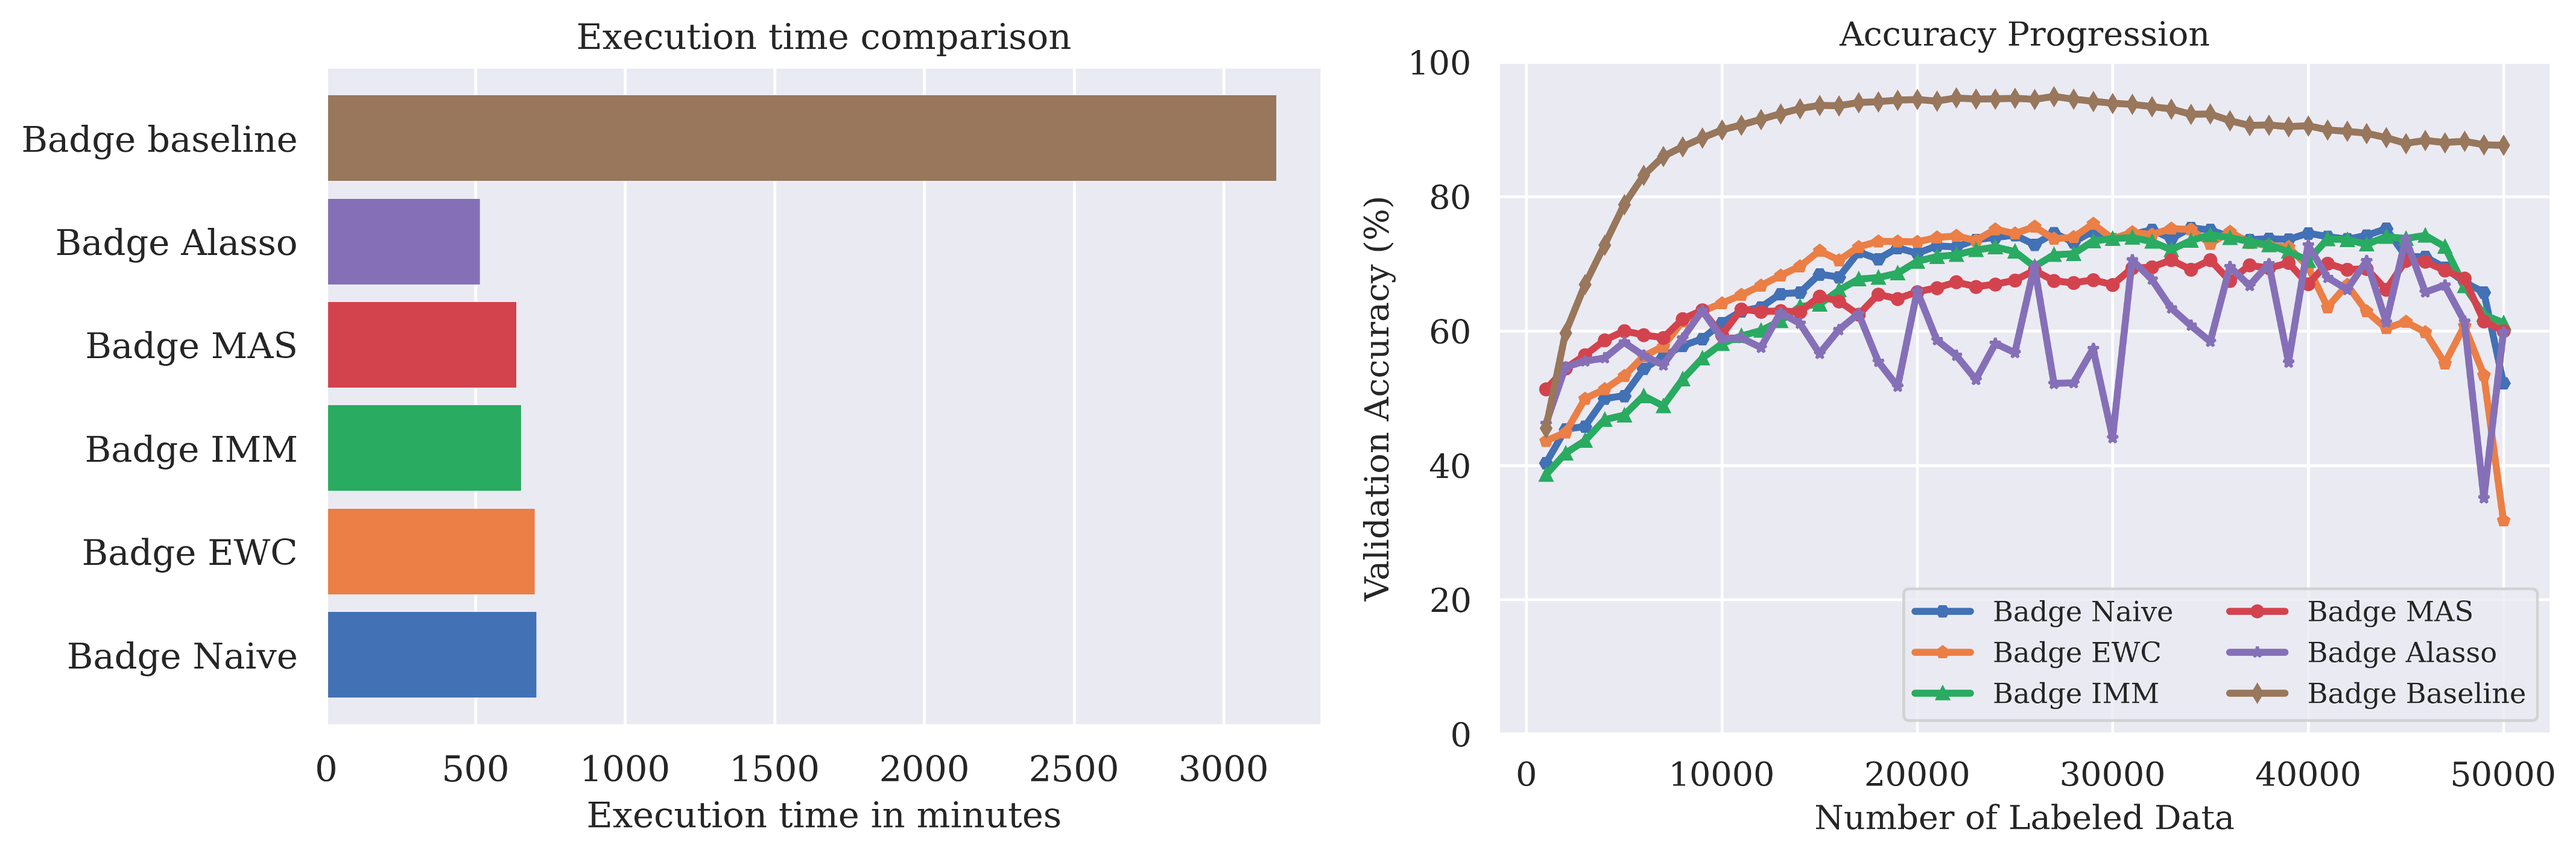
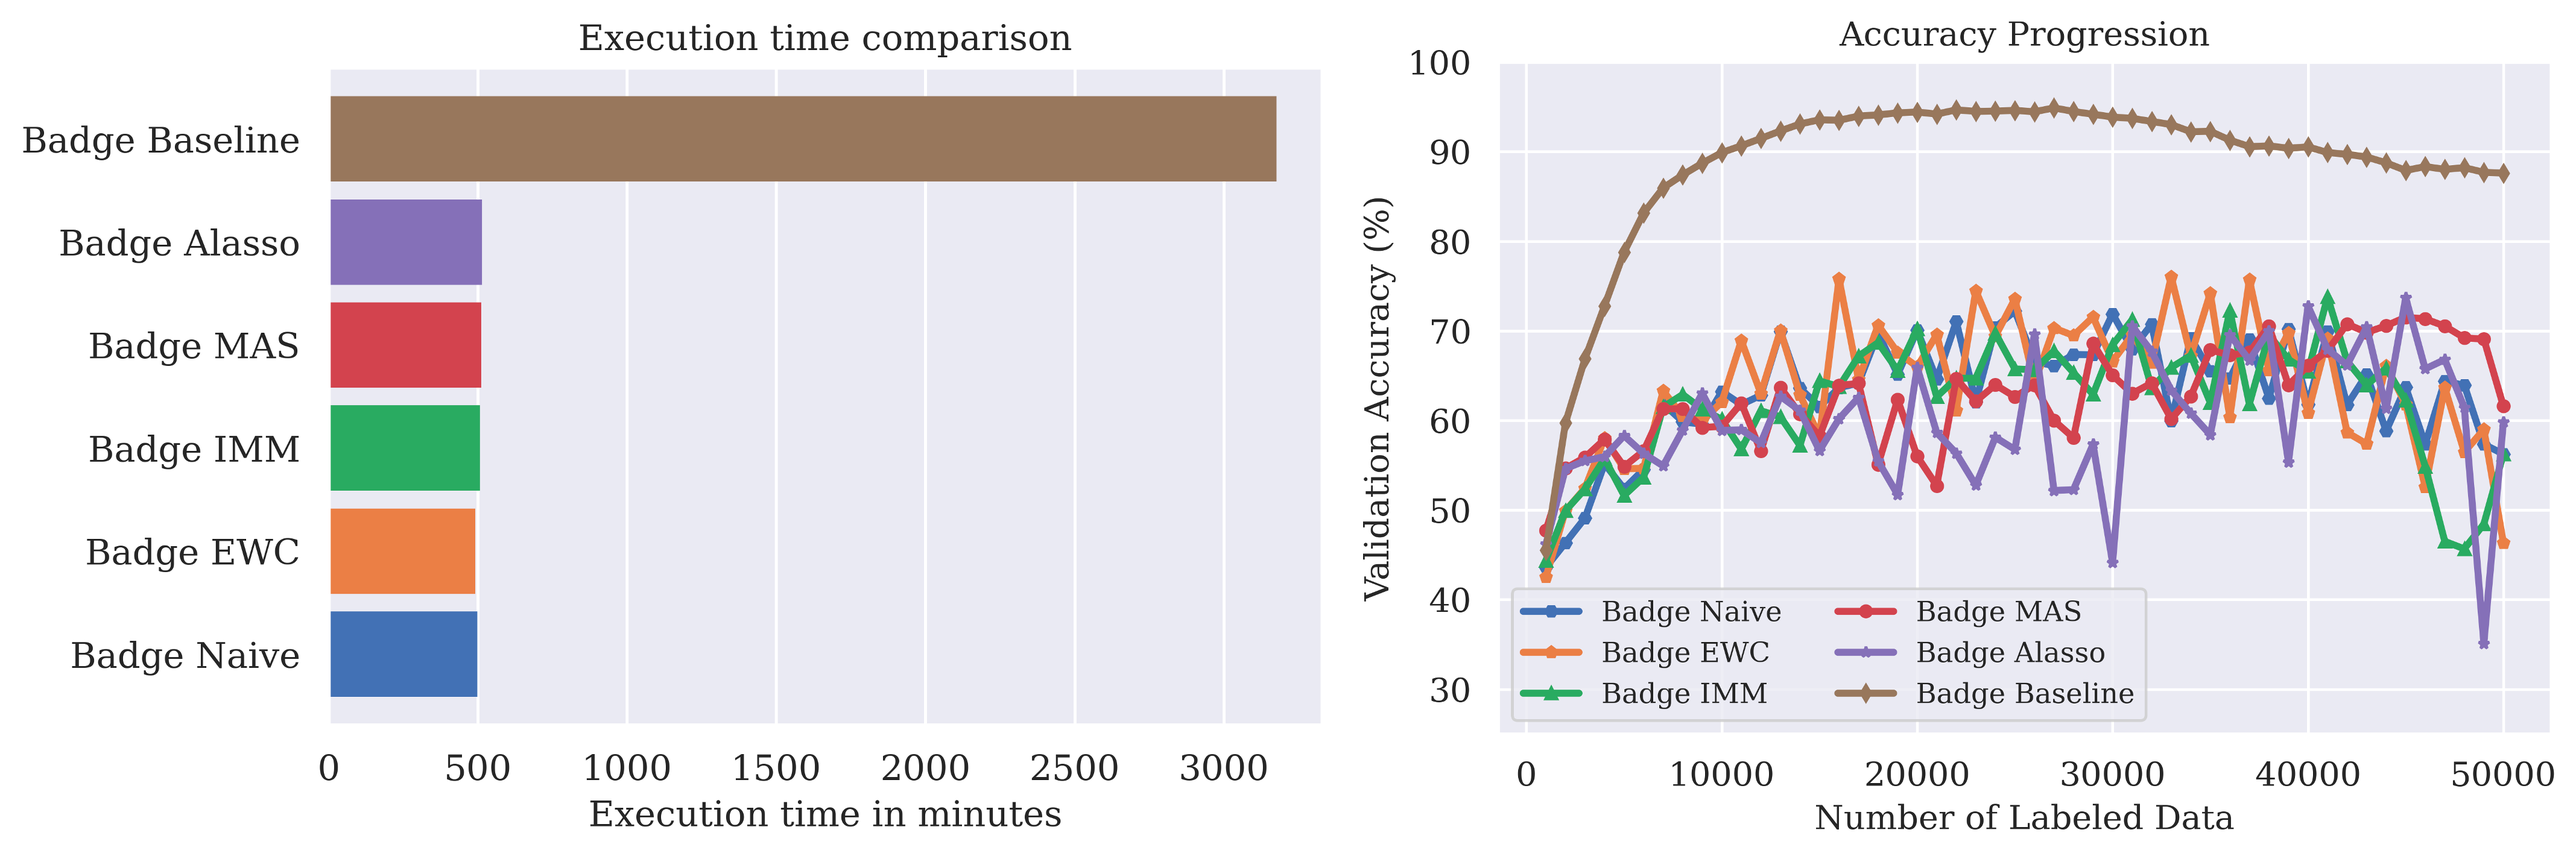
Finish CAL section of Evaluation

diff --git a/doc/thesis/sections/evaluation.tex b/doc/thesis/sections/evaluation.tex
@@ -118,11 +118,10 @@ strates a marginally increasing validation accuracy, the validation accuracy cur
     \label{fig:Evaluation:Results:CAL:CoreSet1000}
 \end{figure}
 
-% In terms of runtime, all
-%     strategies are significantly faster than the classic Active Learning approach. However, there is a notable gap in validation accuracy between Active Learning and all Continual
-%     Active Learning strategies. EWC performs best for the first 30000 samples but falls behind in the end. IMM performs closer to Naive with an increasing amount of samples. MAS and
-%     Alasso perform significantly worse than the other strategies.
-Badge: TO-DO when new plot is there
+In our final experiment with batch size 1000, we use the Active Learning strategy Badge. The results are shown in figure \ref{fig:Evaluation:Results:CAL:Badge1000}. All Continual Learning strategies
+outperform the baseline in terms of runtime by a large margin. Between the Continual Learning strategies, there are only marginal differences in execution time. The validation accuracy of all Continual
+Learning strategies is irregular and all of them leave a significant gap to the baseline. There is no Continual Learning strategy which demonstrates a significantly higher or lower validation accuracy
+than the others. However, MAS and Alasso fall behind the other Continual Learning strategies at around 25000 samples but manage to catch up in the end. \par
 
 \begin{figure}[h]
     \centering
@@ -176,7 +175,6 @@ at first, but suffers from a heavy decrease in validation accuracy at around 150
     \label{fig:Evaluation:Results:CAL:BALD2000}
 \end{figure}
 
-%TODO
 Next, we run the experiment with CoreSet and a batch size of 2000. We present our results in figure \ref{fig:Evaluation:Results:CAL:CoreSet2000}. The gap in execution time between the baseline and the
 Continual Learning strategies has again decreased. IMM is the fastest Continual Learning strategy, closely followed by EWC. EWC is followed by Naive and MAS, who have similar execution times. Alasso is
 the slowest approach, albeit being about 6.5 times as fast as the baseline. Regarding validation accuracy, all Continual Learning strategies are significantly outperformed by the baseline. Naive performs best
@@ -192,11 +190,11 @@ with its validation accuracy decreasing over the course of the experiment. \par
     \label{fig:Evaluation:Results:CAL:CoreSet2000}
 \end{figure}
 
-%TODO
-In terms of runtime, all
-    strategies are 2.5-3 times faster than the classic Active Learning approach. However, there is a notable gap in validation accuracy between Active Learning and all Continual
-    Active Learning strategies. The performance of IMM and EWC is similar to the Naive approach. MAS performs slightly worse than the first three, but 
-    worse than the first three strategies but better than Alasso. The validation accuracy of Alasso becomes worse over time and is significantly worse than the other strategies.
+Finally, we run the same experiment with the Active Learning strategy Badge. Our results can be found in figure \ref{fig:Evaluation:Results:CAL:Badge2000}. The margin in execution time between the baseline
+and the Continual Learning strategies has decreased which is mainly due to the large decrease in runtime of the baseline, compared to the experiment with 1000 batch size. Nevertheless, the Continual
+Learning strategies are about 3.5 times as fast as the baseline. Within the Continual Learning strategies there is only a minor runtime difference, with IMM being the fastest and Alasso the slowest. In terms of 
+validation accuracy, the gap between the baseline as the Continual Learning strategies has decreased. More notably though, the validation accuracy curves of all Continual Learning strategies more consistent than
+in the previous experiment with 1000 batch size. IMM, EWC and Naive perform similar, followed by MAS. Alasso is the worst performing strategy, falling behind the others after bout 10000 samples. \par
 
 \begin{figure}[h]
     \centering
@@ -247,7 +245,6 @@ the best Continual Learning strategy, but its validation accuracy decreases stea
     \label{fig:Evaluation:Results:CAL:BALD4000}
 \end{figure}
 
-%TODO
 
 We now run the experiment with the identical setup with the Active Learning strategy CoreSet. Our results are presented in figure \ref{fig:Evaluation:Results:CAL:CoreSet4000}. The gap in execution time between the baseline and the Continual Learning 
 strategies has further decreased. IMM is the fastest Continual Learning strategy, being about 6 times as fast as the baseline. On the other hand, Alasso is the slowest Continual Learning strategy, boasting around one fourth of the execution time of the
@@ -264,11 +261,12 @@ after 8000 samples. \par
     \label{fig:Evaluation:Results:CAL:CoreSet4000}
 \end{figure}
 
-%TODO
-In terms of runtime, all
-    strategies are approximately 2 times faster than the classic Active Learning approach. There is a gap in validation accuracy between Active Learning and all Continual
-    Active Learning strategies, however this is lower than the gap for smaller batch sizes. The Naive approach performs best, closely followed by EWC. IMM comes third decreasing the
-    performance gap to the third two approaches with increasing number of labeled data. MAS follows IMM and Alasso falls behind significantly.
+Our final experiment with a batch size of 4000 is run with the Active Learning strategy Badge. The results of the experiment can be found in figure \ref{fig:Evaluation:Results:CAL:Badge4000}. Out of all experiments in this series, this one shows the
+smallest gap in execution time between the baseline and the Continual Learning strategies. However, the baseline is still about 800 Minutes or 13 hours slower than all Continual Learning strategies. Just as in the experiment with 2000 batch size, the
+execution time of the Contiual Learning strategies is comparable, with Alasso being the slowest and IMM being the fastest. Compared to the experiment with batch size 2000, the validation accuracy curve of all Continual Learning strategies has become smoother 
+and the gap between the baseline and the Continual Learning strategies has decreased. The only exception to this is Alasso, which has a negative slope in its validation accuracy curve in the first half of the experiment, followed by a slight increase in 
+validation accuracy and a huge drop in the end. IMM, EWC and Naive perform similar for the first 45000 samples, where IMM falls behind the other two strategies. The validation accuracy of MAS is almost consistent throughout the experiment, with a slight
+increase in the first half and a slight decrease in the second half. \par
 
 \begin{figure}[h]
     \centering
@@ -299,7 +297,7 @@ Motivated by the findings from the previous section, we wonder if the initializa
 \cite{iyer2021submodular} yields better validation accuracy when training on the initial labeled pool. We therefore test the effect of an initialization using the facility location selection compared to our random initialization. As our Active Learning strategy,
 we use Badge with a batch size of 4000 and MAS as our Continual Learning strategy. The results of the experiment can be found in figure \ref{fig:Evaluation:Results:CAL:FLinit}. While the facility location approach performs better than random initialization, the difference is
 marginal. Interestingly, the validation accuracy of the facility location approach is lower than the random initialization in the first iteration. The most significant drawback of the facility location initialization is its resource-intensity. Initialization with facility
-location takes about 24 hours to complete and requires more than 100GB of memory using the implementation proposed by Beck et al. \cite{beck2021effective}. \par
+location takes about 24 hours to complete and requires more than 100GB of memory for CIFAR-10 using the implementation proposed by Beck et al. \cite{beck2021effective}. \par
 
 \begin{figure}[h]
     \centering
@@ -313,17 +311,57 @@ location takes about 24 hours to complete and requires more than 100GB of memory
 \label{sec:Evaluation:Results:CAL:Replay}
 In section \ref{sec:Methodology:ReplayStrategy} we propose a custom replay strategy for Continual Active Learning. The use of our replay strategy is motivated by the main finding of section \ref{sec:Evaluation:Results:CAL:ALCL}: the validation accuracy increases with an
 increased batch size. In this set of experiments, we use the Active Learning strategy CoreSet and vary the batch size and the size of the replay buffer. Moreover, we investigate the effect of CoreSet selection in the replay buffer compared to random selection. We present our
-results in figure \ref{fig:Evaluation:Results:CAL:Replay}. When variying the batch size and buffer size,  we notice 
+results in figure \ref{fig:Evaluation:Results:CAL:Replay}. When varying the batch size and buffer size, we notice that increasing the buffer size and the batch size yields a higher validation accuracy. However, our replay strategy does not outperform the Naive approach when using
+the same amount of training data (i.e. batch size + replay buffer size for the replay strategy and batch size for the Naive approach). To evaluate the importance of CoreSet selection in the buffer compression process, we compare the validation accuracy of our replay strategy
+when using CoreSet selection and random selection. We notice that the validation accuracy remains largely the same for both buffer compression methods, apart from the last 15000 samples, where CoreSet selection outperforms random selection. \par
 
 \begin{figure}[h]
     \centering
     \includegraphics[width=\linewidth]{images/results_CAL/replay_CAL.png}
-    \caption[Continual Active Learning Custom Replay strategy]{TODO: Redo plot}
+    \caption[Continual Active Learning Custom Replay strategy]{Left: Comparison of validation accuracy of our Replay strategy with different hyperparameters. Right: Comparison of validation accuracy of our Replay strategy when using different buffer compression approaches.
+    In both runs, we use a batch size of 4000 and a replay buffer size of 4000.}
     \label{fig:Evaluation:Results:CAL:Replay}
 \end{figure}
 
-\subsection{Results for Continual Active Learning for Model Stealing}
-\label{sec:Evaluation:Results:CALMS}
+\subsubsection{VAAL and AGEM}
+\label{sec:Evaluation:Results:CAL:VAAL_AGEM}
+Unsatisfied with the results from previous experiments, we decide to implement further Continual and Active Learning strategies. We perform an extensive literature search, investigating the suitability of representation-based Active Learning strategies and Continual Learning
+strategies from the Exemplar Rehearsal category in the summary paper by Mundt et al. \cite{mundt2020wholistic}. The Active Learning strategy which we implement is VAAL \cite{sinha2019variational} and the Continual Learning strategy is AGEM \cite{chaudhry2019continual}. We decide
+to implement VAAL because it is the only representation-based Active Learning strategy which consistently performs better than random sampling. The reason why we choose to implement AGEM as our Continual Learning strategy is that is one of the few Exemplar Rehearsal strategies
+applicable to (Semi-) supervised Learning (many other strategies focus on Reinforcement Learning) while being computationally efficient and demonstrating strong performance in the experiments by Chaudhry et al. \cite{chaudhry2019continual} at the same time. \par
+First, we analyze the performance of VAAL as an Active Learning strategy. We run VAAL with a batch size of 4000 and compare it to Random and CoreSet. We choose Random because it is the baseline for Active Learning strategies and CoreSet because it is among the best performing Active
+we used before. The results can be found in the left plot in figure \ref{fig:Evaluation:Results:CAL:VAAL}. While VAAL outperforms random sampling by a large margin, it is itself outperformed by about the same margin by Coreset. To ensure that the results are not due to a
+suboptimal hyperparameter choice, we run VAAL training VAE and Discriminator for 20 epochs in one run and 100 epochs in another. Because we are interested in the performance of VAAL in our Continual Active Learning setting, we use Continual Active Learning with a batch size of 4000
+and the Continual Learning strategy Naive. We present the results of the experiment in the right plot of figure \ref{fig:Evaluation:Results:CAL:VAAL}. Surprisingly, the validation accuracy is marginally impacted by the training time of Generator and VAE. If anything, the validation
+accuracy is higher when training for 20 epochs. \par
+
+\begin{figure}[h]
+    \centering
+    \includegraphics[width=\linewidth]{images/results_CAL/VAAL_plots.png}
+    \caption[Continual Active Learning Custom Replay strategy]{Left: Comparison of validation accuracy of VAAL to the Active Learning strategies Random and CoreSet. We use a batch size of 4000 for the experiments. Right: Comparison of validation accuracy when varying the training 
+    epochs for VAE and Discriminator. We use Continual Active Learning with the Naive approach as our Continual Learning strategy and a batch size of 4000.}
+    \label{fig:Evaluation:Results:CAL:VAAL}
+\end{figure}
+
+Next, we experiment with AGEM. AGEM has two hyperparameters: $S$, which is the number of samples randomly drawn from the memory to compute the reference gradients and $P$ which is the number of data points stored to the memory from each task. We run AGEM with the Active Learning
+strategy LC and a batch size of 2000. To assess the performance of AGEM, we compare its validation accuracy to the Naive approach. We vary $S$ and $P$ and present our results in the right plot of figure \ref{fig:Evaluation:Results:CAL:AGEM}. The validation accuracy increases with
+an increased $S$ and $P$ until about 12000 samples, after which the validation accuracy drops for all values of $S$ and $P$. AGEM outperforms the Naive approach for the first 15000 samples, but is outperformed by Naive for the remainder of the experiment. \par
+After investigating the influence of AGEM's hyperparameters, we compare the combination of VAAL and AGEM to VAAL and Naive, using a batch size of 4000. The results are shown in the left plot of figure \ref{fig:Evaluation:Results:CAL:AGEM}. Although AGEM performs worse than the Naive
+approach when using the Active Learning strategy LC, it outperforms the Naive approach when using VAAL as the Active Learning strategy. \par
+
+%TODO: Redo right plots
+\begin{figure}[h]
+    \centering
+    \includegraphics[width=\linewidth]{images/results_CAL/AGEM_plots.png}
+    \caption[Continual Active Learning Custom Replay strategy]{Left: Comparison of validation accuracy of AGEM to the Naive approach when using VAAL as the Active Learning strategy We use a batch size of 4000 for the experiments. Right: Comparison of validation accuracy of AGEM
+     to the Naive approach when using different values of $S$ and $P$. We use the Active Learning strategy LC and a batch size of 2000 for the experiments.}
+    \label{fig:Evaluation:Results:CAL:AGEM}
+\end{figure}
+
+\subsection{Model Stealing Results}
+\label{sec:Evaluation:Results:MS}
+After extensively studying Continual Active Learning, we shift the focus of our experiments to Model Stealing. Since we build our work on the ActiveThief framework, we first evaluate the performance of the ActiveThief framework, including the influence of Model Architecture and
+Thief Dataset. 
 
 \begin{table}
     \centering
@@ -343,13 +381,13 @@ results in figure \ref{fig:Evaluation:Results:CAL:Replay}. When variying the bat
 
 \begin{table}
     \centering
-    \begin{tabular}{l | c c c} 
+    \begin{tabular}{c | c c c} 
         \hline
-        \diagbox[width=10em]{Diag\\ Column Head 1}{Diag Column \\ Head 2} &  ActiveThiefConv2 & ActiveThiefConv3 & ActiveThiefConv4 \\ 
+        \diagbox[width=12em]{Substitute Model}{Target Model} &  ActiveThiefConv2 & ActiveThiefConv3 & ActiveThiefConv4 \\ 
         \hline 
-        ActiveThiefConv2 & A & B & C \\
-        ActiveThiefConv3 & A & B & C \\
-        ActiveThiefConv4 & A & B & C \\
+        ActiveThiefConv2 & 57.46 & 54.88 & 48.16 \\
+        ActiveThiefConv3 & 61.02 & 71.99 & 71.61 \\
+        ActiveThiefConv4 & 60.5 & 71.75 & 71.56 \\
         \hline
     \end{tabular}
     \caption{Success of Model Stealing Attacks for Different NN Architectures on CIFAR-10}
@@ -359,18 +397,19 @@ results in figure \ref{fig:Evaluation:Results:CAL:Replay}. When variying the bat
 
 \begin{table}
     \centering
-    \begin{tabular}{l | c c c} 
+    \begin{tabular}{c | c c c} 
         \hline
-        \diagbox[width=10em]{Diag\\ Column Head 1}{Diag Column \\ Head 2} &  ActiveThiefConv2 & ActiveThiefConv3 & ActiveThiefConv4 \\ 
+        \diagbox[width=12em]{Substitute Model}{Target Model} &  ActiveThiefConv2 & ActiveThiefConv3 & ActiveThiefConv4 \\ 
         \hline 
-        ActiveThiefConv2 & A & B & C \\
-        ActiveThiefConv3 & A & B & C \\
-        ActiveThiefConv4 & A & B & C \\
+        ActiveThiefConv2 & 48.65 & 63.16 & 55.95 \\
+        ActiveThiefConv3 & 67.71 & 90.65 & 71.16 \\
+        ActiveThiefConv4 & 75.38 & 82.56 & 89.40 \\
         \hline
     \end{tabular}
     \caption{Success of Model Stealing Attacks for Different NN Architectures on MNIST}
     \label{fig:ModelStealingNNArchitecturesMNIST}
 \end{table}
+
 
 
 \begin{table}
@@ -448,9 +487,9 @@ results in figure \ref{fig:Evaluation:Results:CAL:Replay}. When variying the bat
 
 \begin{table}
     \centering
-    \begin{tabular}{c | c c c c c} 
+    \begin{tabular}{c | c c c c} 
         \hline
-        \diagbox[width=11em]{Active \\ Learning Strategy}{Continual Learning \\ Strategy} & Random & LC & BALD & CoreSet & Badge \\ 
+        \diagbox[width=11em]{Active \\ Learning Strategy}{Continual Learning \\ Strategy} & Random & LC & BALD & CoreSet \\ 
         \hline 
         Baseline & 26.65 & 26.37 & 28.08 & 27.53\\
         Naive & 18.46 & 18.48 & 16.8 & 17.69 \\
@@ -472,8 +511,8 @@ results in figure \ref{fig:Evaluation:Results:CAL:Replay}. When variying the bat
         \hline 
         Baseline & 21.26 & - & 21.0 & 20.96\\
         Naive & 7.93 & 7.63 & 4.98 & 1.53\\
-        EWC & 8.79 & 6.55 & 1.99 & 7.77 \\
-        IMM & 8.59 & 8.44 & 1.47 & 8.05 \\
+        EWC & 8.79 & 6.55 & 2.07 & 7.77 \\
+        IMM & 8.59 & 8.44 & 7.18 & 8.05 \\
         MAS & 5.37 & 5.44 & 5.3 & 4.52 \\
         Alasso & 5.28 & 6.11 & 5.72 & 5.51 \\
         \hline
